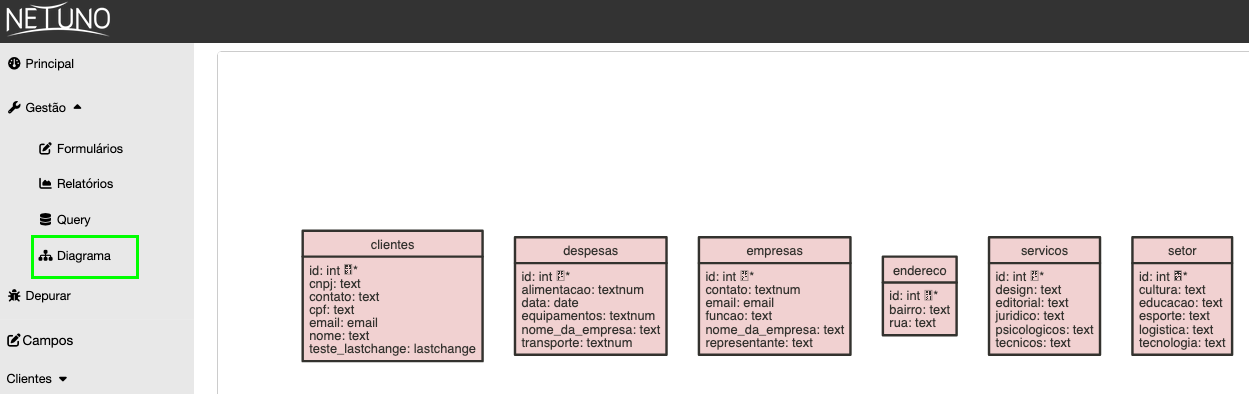
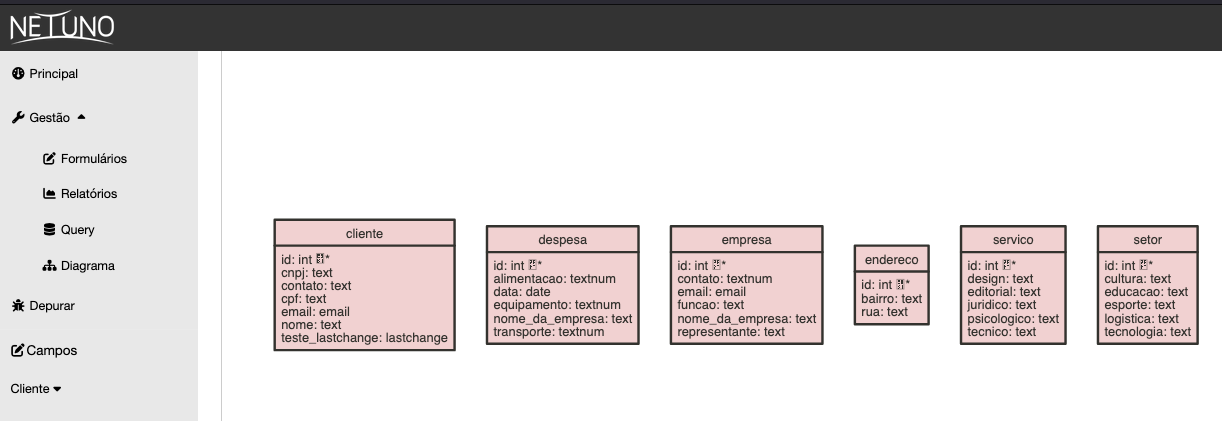
PT: UI/Form updating images and content

diff --git a/i18n/pt/docusaurus-plugin-content-docs/current/academy/ui/forms.md b/i18n/pt/docusaurus-plugin-content-docs/current/academy/ui/forms.md
@@ -26,10 +26,11 @@ Ele será exibido no menu lateral do backoffice nas seguintes seções: **Formul
 
 **Como preencher:**
 
-- **Manual:** Digite um nome único com letras minúsculas, sem espaços ou caracteres especiais (use o formato `snake_case`, por exemplo: cadastro_clientes).
+- **Manual:** Digite um nome único no singular, com letras minúsculas e sem espaços ou caracteres especiais (use o formato `snake_case`, por exemplo: cadastro_cliente).
 - **Automático:** Marque a caixa **Auto** ao lado do campo. O sistema irá gerar automaticamente um nome técnico baseado no **Título do formulário**. Esta é a prática recomendada para manter a consistência.
+- 
 
-![forms-name-table-pt.png](/docs/assets/academy/ui/forms/forms-name-table-pt.png)
+![form-name-table-pt.png](/docs/assets/academy/ui/forms/form-name-table-pt.png)
 
 ## 3 - Agrupamento de formulários (Pai)
 
@@ -37,8 +38,8 @@ Este campo permite criar uma hierarquia entre formulários. Ao selecionar um "Pa
 
 **Como preencher:**
 
-- Deixe em branco se este for um formulário principal (como "Clientes").
-- Selecione um formulário existente na lista se quiser criar um relacionamento de dependência. Por exemplo, um formulário "Endereços" poderia ter "Clientes" como pai.
+- Deixe em branco se este for um formulário principal (como "Cliente").
+- Selecione um formulário existente na lista se quiser criar um relacionamento de dependência. Por exemplo, um formulário "Endereços" poderia ter "Cliente" como pai.
 
 ![form-grouping-parent-pt.png](/docs/assets/academy/ui/forms/form-grouping-parent-pt.png)
 
@@ -63,7 +64,7 @@ Estes campos definem valores padrão para novos registros e a ordem de exibiçã
 
 ![form-sort-settings-and-associated-users-pt.png](/docs/assets/academy/ui/forms/form-sort-settings-and-associated-users-pt.png)
 
-## Modo Diagrama
+## 6 - Modo Diagrama
 
 A tela de **Diagrama** oferece uma visualização gráfica de toda a estrutura de dados da sua aplicação. Conhecido como Diagrama de Entidade-Relacionamento (DER), ele exibe todos os formulários (que representam tabelas no banco de dados), seus respectivos campos e as conexões entre eles.
 Esta ferramenta é fundamental para entender rapidamente como as informações da sua aplicação estão organizadas e conectadas, facilitando a análise e o desenvolvimento.
